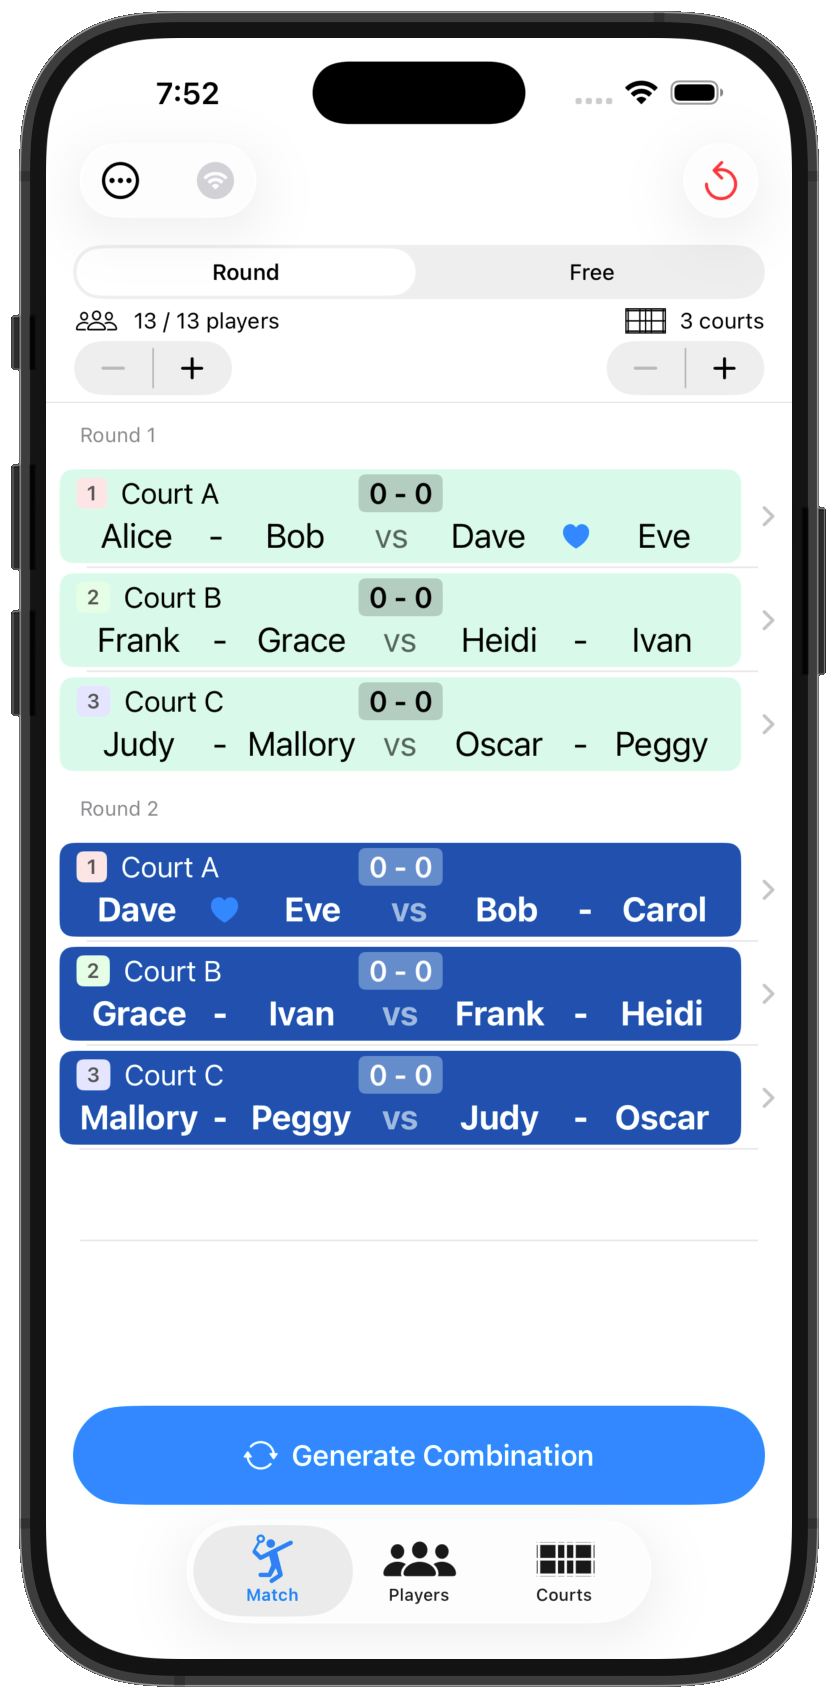
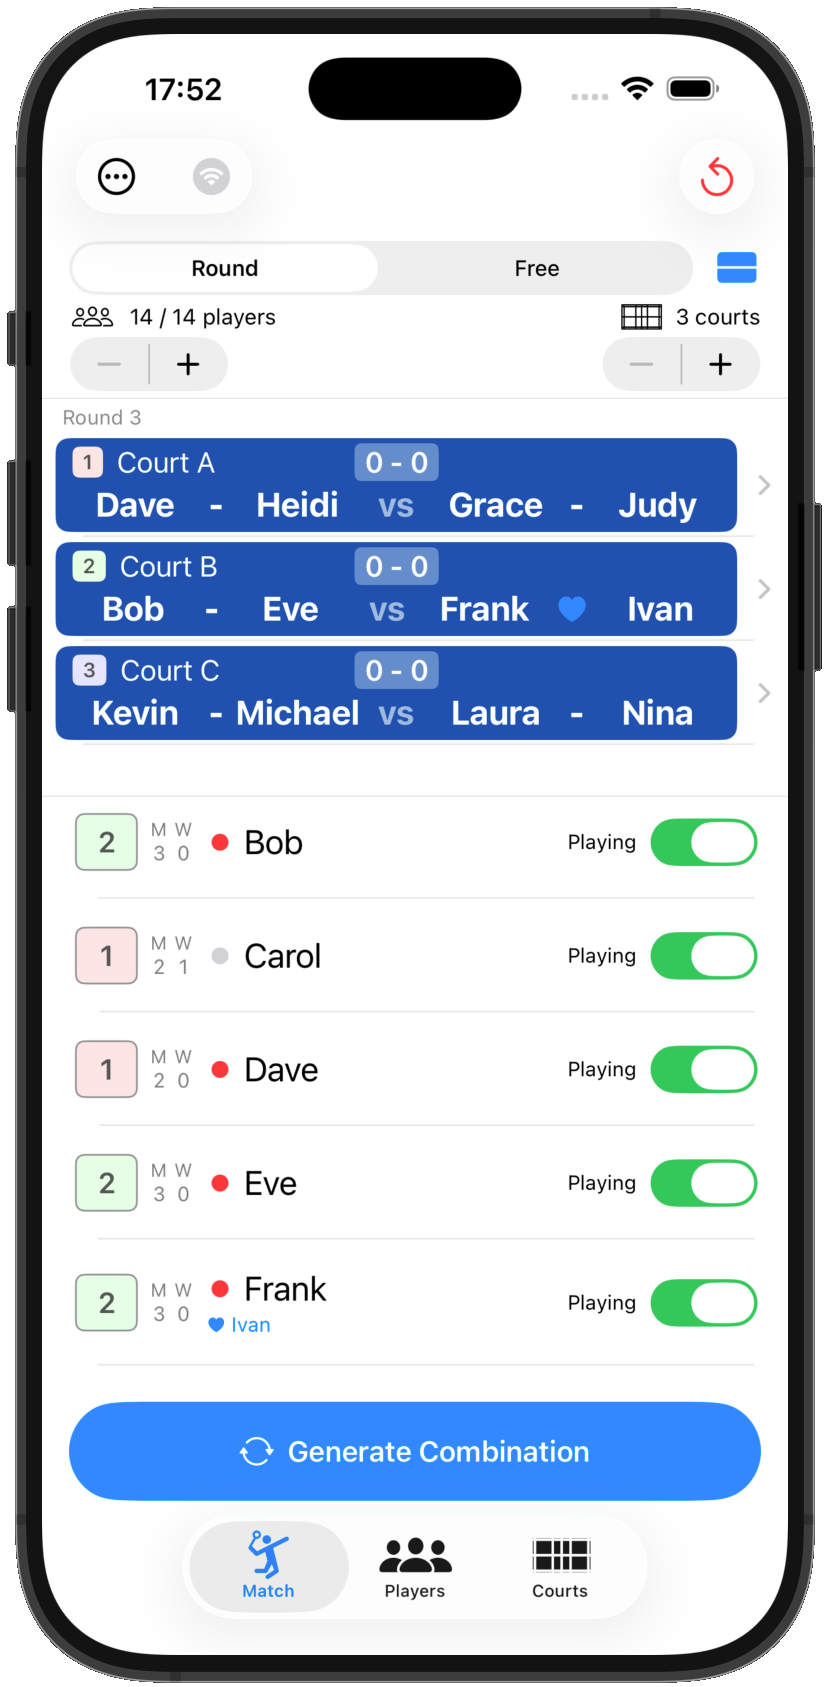
PairGen 1.27.0: 試合タブの分割表示を反映
試合タブに組み合わせとプレイヤー一覧の分割表示（iPhone専用）を追加したことに
伴い、game-tab.html に操作説明とスクリーンショット、reverse-lookup.html に
逆引き項目、home.html・update-history.html に更新内容を反映。

Claude-Session: https://claude.ai/code/session_01XDczfQuDNFuqDcJjfNdUKf

diff --git a/game-tab.html b/game-tab.html
@@ -36,14 +36,15 @@
     </ul>
   </li>
   <li><a href="#free-mode">2. フリーモード（コート単位で個別生成）</a></li>
-  <li><a href="#reset-scores">3. 試合結果をリセットする</a></li>
-  <li><a href="#score-input">4. スコア入力</a>
+  <li><a href="#split-view">3. 画面を分割して表示する</a></li>
+  <li><a href="#reset-scores">4. 試合結果をリセットする</a></li>
+  <li><a href="#score-input">5. スコア入力</a>
     <ul>
       <li><a href="#game-point">Game Point（勝利に必要な得点）を設定する</a></li>
       <li><a href="#next-game-setup">G1・G2 終了後の自動設定</a></li>
     </ul>
   </li>
-  <li><a href="#menu">5. 試合タブのメニュー</a>
+  <li><a href="#menu">6. 試合タブのメニュー</a>
     <ul>
       <li><a href="#airdrop-share">セッションの共有（AirDrop）</a></li>
       <li><a href="#mail-results">結果をメールする</a></li>
@@ -82,11 +83,29 @@
 <div class="tip">💡 フリーモードでは Apple Watch からもコートの終了マークを操作できます。</div>
 <div class="tip">💡 コート一覧での Finish（終了）/Resume（再開）操作と、スコア入力画面の <strong>Finished</strong>（終了）トグルは連動しています。どちらか一方を操作すればもう一方にも反映されます。</div>
 
-<h2 id="reset-scores">3. 試合結果をリセットする</h2>
+<h2 id="split-view">3. 画面を分割して表示する</h2>
+<p>Match タブ上部のモードセレクターの右にあるボタンをタップすると、画面が上下に分割され、<strong>上段に最新ラウンドの組み合わせ、下段にプレイヤー一覧</strong>が表示されます。もう一度タップすると、組み合わせ一覧だけを表示する従来の表示に戻ります。</p>
+<div class="ss"><img src="images/game-split-view.png" alt="上段に組み合わせ、下段にプレイヤー一覧を表示した分割表示"></div>
+<div class="note">⚠ この機能は iPhone 専用です。iPad では Players・Courts が常に画面左側に表示されているため、このボタンはありません。</div>
+<p>試合中にレベルや出場・休憩を変更したい場合でも、Players タブへ移動せずにその場で操作できます。下段の一覧では、Players タブと同じように以下の操作が行えます。</p>
+<ul>
+  <li><strong>レベルの変更</strong> — 左端のレベルバッジをタップして巡回変更します</li>
+  <li><strong>出場／休憩の切り替え</strong> — 右端のトグルで切り替えます</li>
+  <li><strong>ピン留め</strong> — 名前の左の丸印をタップします（出場中のプレイヤーは赤い丸で表示されます）</li>
+</ul>
+<p>上段の行をタップすると、通常どおりスコア入力画面が開きます。左スワイプの操作も通常の表示と同じです。</p>
+<ul>
+  <li><strong>ラウンドモード</strong> — 左スワイプで<a href="#undo">直前の組み合わせを取り消せます</a>（生成した直後の1回のみ）</li>
+  <li><strong>フリーモード</strong> — 上段には各コートの現在の試合が表示され、左スワイプで <strong>Finish</strong>（終了）／<strong>Resume</strong>（再開）を切り替えられます</li>
+</ul>
+<div class="note">⚠ 下段の一覧からプレイヤーの編集画面（名前・写真・固定ペアの設定など）は開けません。編集する場合は Players タブをご利用ください。</div>
+<div class="tip">💡 この表示設定は端末ごとに記憶され、アプリを再起動しても保持されます。</div>
+
+<h2 id="reset-scores">4. 試合結果をリセットする</h2>
 <p>Match タブ右上の <code>↩</code>（リセット）ボタンをタップすると、確認アラート「Delete Match Info」（ゲーム情報を削除）が表示されます。<strong>Delete</strong>（削除）を選ぶと、これまでの試合結果がすべて削除されます（プレイヤー自体は削除されません）。</p>
 <div class="tip">💡 プレイヤーごと最初からやり直したい場合は、Players タブの「プレイヤーのリセット」をご利用ください。</div>
 
-<h2 id="score-input">4. スコア入力</h2>
+<h2 id="score-input">5. スコア入力</h2>
 <p>Match タブの試合行をタップすると、スコア入力画面が開きます。画面は上から順に、<code>Game Point</code>（勝利に必要な得点）の設定と <code>Finished</code>（終了）トグル、そのコートで何ゲーム目かを切り替える <code>G1 / G2 / G3</code> ピッカーとここまでの勝ちゲーム数（<code>A: 0 - 0 :B</code>）、プレイヤー表示、得点ボタンという構成です。勝ちゲーム数とゲームピッカーのスコアは、常に <strong>PairA:PairB</strong> の順で固定表示され、後述のエンドチェンジを行っても入れ替わりません。</p>
 <p>プレイヤー表示には、それぞれ <strong>PairA</strong> / <strong>PairB</strong>（内部の pairA・pairB に対応）のラベルが付きます。こちらはエンドチェンジで実際の左右位置が入れ替わると、表示も一緒に切り替わります。</p>
 <div class="ss"><img src="images/score-main.png" alt="スコア入力画面"></div>
@@ -133,7 +152,7 @@
 <h3 id="reset-score">スコアをリセットする</h3>
 <p>画面右上の <code>↩</code> アイコンから、そのゲームのスコアをリセットできます。</p>
 
-<h2 id="menu">5. 試合タブのメニュー</h2>
+<h2 id="menu">6. 試合タブのメニュー</h2>
 <p>Match タブ左上の「⋯」から、以下の機能を利用できます。</p>
 
 <h3 id="airdrop-share">セッションの共有（AirDrop）</h3>

diff --git a/home.html b/home.html
@@ -28,7 +28,7 @@
 <body>
 
 <h1>くみあぷ（PairGen）</h1>
-<p><span class="badge">v1.26.0</span></p>
+<p><span class="badge">v1.27.0</span></p>
 <div class="note">⚠ This help is available in Japanese only. Please use your browser's auto-translate feature.</div>
 <p>PairGen はバドミントンなどのダブルス競技向けに、組み合わせを自動生成する iOS アプリです（Android 版も公開中）。参加人数とコート数を設定するだけで、重複を最小限に抑えた組み合わせをすぐに生成できます。</p>
 
@@ -82,6 +82,7 @@
   <li>プレイヤー写真の登録</li>
   <li>メンバーの保存・グループ管理</li>
   <li>プレイヤー一覧に現在出場中かどうかを示す丸印を表示し、タップして「ピン留め」すると次の組み合わせで最優先に出場</li>
+  <li>組み合わせとプレイヤー一覧を1画面に並べる分割表示（iPhone）。試合中の出場・休憩の切り替えやレベル変更をその場で操作</li>
   <li>プレイヤー・グループの情報をJSONファイルとして書き出し／読み込み（機種変更時のデータ移行や、手元での一括編集に）</li>
 </ul>
 
@@ -116,13 +117,10 @@
   <li>ヘルプページは日本語で提供しています。ブラウザの自動翻訳機能をご利用ください。</li>
 </ul>
 
-<h2>バージョン 1.26.0 更新内容</h2>
+<h2>バージョン 1.27.0 更新内容</h2>
 <ul>
-  <li>組み合わせの作り方を全面的に見直しました。そのラウンドに出る全員をまとめて見て、同じ相手と組む回数がいちばん少なくなる分け方を選びます。「特定の人といつまでも組めない」「同じ人とばかり組む」といった偏りが大幅に減り、直前のラウンドと同じペアが続けてできることもなくなります（レベルを固定したコート、「1&amp;2」コートも同様です）</li>
-  <li>出場機会の均等さを改善しました。続けて出ている人から順に休みに回るので、出ずっぱりになったり待たされ続けたりしにくくなります。組み合わせに変化をつけるため、まれに2ラウンド続けて待つことがあります</li>
-  <li>出場の優先順位を、ピン留め → まだ一度も出ていない人 → 直前のラウンドで出番がなかった人、の順に整理しました</li>
-  <li>「デフォルト欠席」を設定したプレイヤーが固定ペアを組んでいた場合、そのペアを自動的に解消するように変更しました。従来は残された相方が一日出場できなくなることがありました</li>
-  <li>サーバー機能（他の端末からWebブラウザで接続する機能）で、対応していない言語のブラウザから接続した場合の表示言語を、日本語から英語に変更しました（アプリ本体と同じ挙動に統一）</li>
+  <li>試合タブに画面を上下に分けて表示するモードを追加しました（iPhone 専用）。上に最新ラウンドの組み合わせ、下にプレイヤー一覧が並ぶので、試合中にレベルや出場・休憩を変えるのにプレイヤータブへ移動する手間がなくなります。上部のボタンでいつでも従来の表示に戻せます（下側の一覧からプレイヤー編集画面は開けません）</li>
+  <li>コートタブのコート数表示が日本語などの環境でも英語のままだった問題を修正しました</li>
 </ul>
 
 <h2>フィードバック</h2>

diff --git a/index.html b/index.html
@@ -28,7 +28,7 @@
 <body>
 
 <h1>くみあぷ（PairGen）</h1>
-<p><span class="badge">v1.26.0</span></p>
+<p><span class="badge">v1.27.0</span></p>
 <div class="note">⚠ This help is available in Japanese only. Please use your browser's auto-translate feature.</div>
 <p>PairGen はバドミントンなどのダブルス競技向けに、組み合わせを自動生成する iOS アプリです（Android 版も公開中）。参加人数とコート数を設定するだけで、重複を最小限に抑えた組み合わせをすぐに生成できます。</p>
 
@@ -82,6 +82,7 @@
   <li>プレイヤー写真の登録</li>
   <li>メンバーの保存・グループ管理</li>
   <li>プレイヤー一覧に現在出場中かどうかを示す丸印を表示し、タップして「ピン留め」すると次の組み合わせで最優先に出場</li>
+  <li>組み合わせとプレイヤー一覧を1画面に並べる分割表示（iPhone）。試合中の出場・休憩の切り替えやレベル変更をその場で操作</li>
   <li>プレイヤー・グループの情報をJSONファイルとして書き出し／読み込み（機種変更時のデータ移行や、手元での一括編集に）</li>
 </ul>
 
@@ -116,13 +117,10 @@
   <li>ヘルプページは日本語で提供しています。ブラウザの自動翻訳機能をご利用ください。</li>
 </ul>
 
-<h2>バージョン 1.26.0 更新内容</h2>
+<h2>バージョン 1.27.0 更新内容</h2>
 <ul>
-  <li>組み合わせの作り方を全面的に見直しました。そのラウンドに出る全員をまとめて見て、同じ相手と組む回数がいちばん少なくなる分け方を選びます。「特定の人といつまでも組めない」「同じ人とばかり組む」といった偏りが大幅に減り、直前のラウンドと同じペアが続けてできることもなくなります（レベルを固定したコート、「1&amp;2」コートも同様です）</li>
-  <li>出場機会の均等さを改善しました。続けて出ている人から順に休みに回るので、出ずっぱりになったり待たされ続けたりしにくくなります。組み合わせに変化をつけるため、まれに2ラウンド続けて待つことがあります</li>
-  <li>出場の優先順位を、ピン留め → まだ一度も出ていない人 → 直前のラウンドで出番がなかった人、の順に整理しました</li>
-  <li>「デフォルト欠席」を設定したプレイヤーが固定ペアを組んでいた場合、そのペアを自動的に解消するように変更しました。従来は残された相方が一日出場できなくなることがありました</li>
-  <li>サーバー機能（他の端末からWebブラウザで接続する機能）で、対応していない言語のブラウザから接続した場合の表示言語を、日本語から英語に変更しました（アプリ本体と同じ挙動に統一）</li>
+  <li>試合タブに画面を上下に分けて表示するモードを追加しました（iPhone 専用）。上に最新ラウンドの組み合わせ、下にプレイヤー一覧が並ぶので、試合中にレベルや出場・休憩を変えるのにプレイヤータブへ移動する手間がなくなります。上部のボタンでいつでも従来の表示に戻せます（下側の一覧からプレイヤー編集画面は開けません）</li>
+  <li>コートタブのコート数表示が日本語などの環境でも英語のままだった問題を修正しました</li>
 </ul>
 
 <h2>フィードバック</h2>

diff --git a/reverse-lookup.html b/reverse-lookup.html
@@ -26,6 +26,7 @@
   <li><a href="players-tab.html#default-absent">常連が休みがちで、毎回チェックを外すのが面倒</a></li>
   <li><a href="players-tab.html#pin">早く帰ってしまうメンバーを優先的に試合に入れたい</a></li>
   <li><a href="players-tab.html#status">誰が今試合中か、休憩中かを一目で知りたい</a></li>
+  <li><a href="game-tab.html#split-view">試合中にレベルや出場・休憩を変えるのに、タブを行き来するのが面倒</a></li>
   <li><a href="players-tab.html#save-load">名簿を保存して次回も使い回したい</a></li>
   <li><a href="players-tab.html#groups">曜日や練習会ごとにメンバーを分けて管理したい</a></li>
   <li><a href="players-tab.html#file-operations">機種変更や引っ越しでプレイヤー・グループのデータを移行したい</a></li>
@@ -49,6 +50,7 @@
   <li><a href="game-tab.html#free-mode">コートが2面あるのにフリーモードに切り替えられない</a></li>
   <li><a href="game-tab.html#free-mode">フリーモードで組み合わせを間違えた</a></li>
   <li><a href="game-tab.html#generate">試合の途中でラウンドとフリーを切り替えたい</a></li>
+  <li><a href="game-tab.html#split-view">今の組み合わせとプレイヤー一覧を1画面で同時に見たい</a></li>
   <li><a href="game-tab.html#undo">組み合わせを間違えた／直前のをやり直したい</a></li>
   <li><a href="players-tab.html#reset-players">最初からやり直したい（プレイヤーも含めて全データリセット）</a></li>
   <li><a href="game-tab.html#reset-scores">試合結果だけ消したい（プレイヤーは残す）</a></li>

diff --git a/update-history.html b/update-history.html
@@ -16,6 +16,12 @@
 <p class="back-link"><a href="home.html">← ホームに戻る</a></p>
 <h1>更新履歴</h1>
 
+<h2>v1.27.0</h2>
+<ul>
+  <li>試合タブに画面を上下に分けて表示するモードを追加しました（iPhone 専用）。上に最新ラウンドの組み合わせ、下にプレイヤー一覧が並ぶので、試合中にレベルや出場・休憩を変えるのにプレイヤータブへ移動する手間がなくなります。上部のボタンでいつでも従来の表示に戻せます（下側の一覧からプレイヤー編集画面は開けません）</li>
+  <li>コートタブのコート数表示が日本語などの環境でも英語のままだった問題を修正しました</li>
+</ul>
+
 <h2>v1.26.0</h2>
 <ul>
   <li>組み合わせの作り方を全面的に見直しました。そのラウンドに出る全員をまとめて見て、同じ相手と組む回数がいちばん少なくなる分け方を選びます。「特定の人といつまでも組めない」「同じ人とばかり組む」といった偏りが大幅に減り、直前のラウンドと同じペアが続けてできることもなくなります（レベルを固定したコート、「1&amp;2」コートも同様です）</li>
